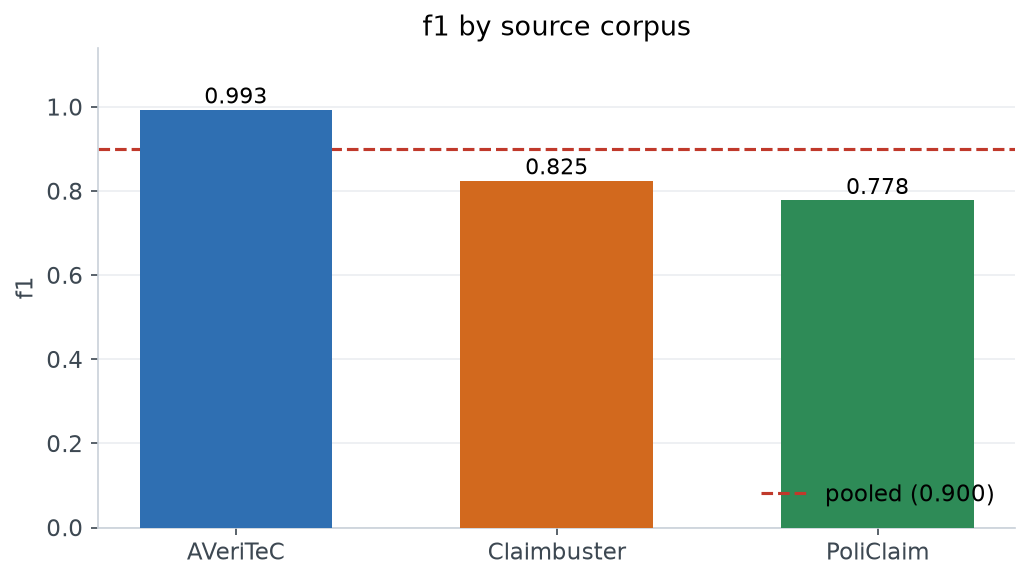
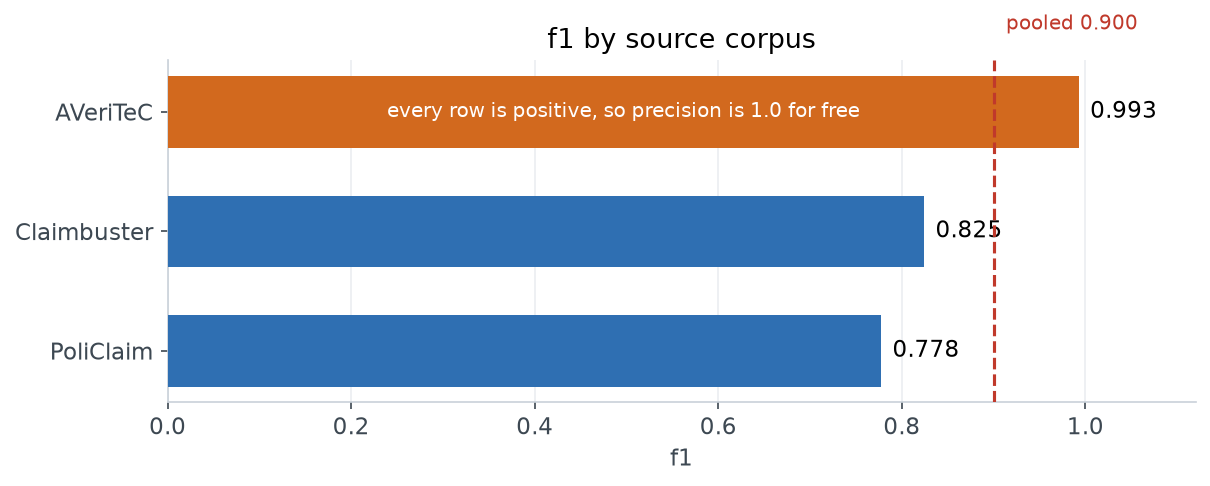
Redo the per-source chart
Vertical bars clipped the y label, the caveat note never rendered, and the
legend sat on top of a bar. Horizontal now, sorted, and the caveat is written
across the AVeriTeC bar itself rather than in a footnote nobody reads - that bar
is high because the corpus has no negatives, and saying so next to the number is
the only way it isn't misleading.

diff --git a/finetuning/plots.py b/finetuning/plots.py
@@ -116,22 +116,26 @@ def threshold_sweep(sweep, baseline: "float | None" = None, name: str = "thresho
 
 
 def by_source_bars(df, metric: str = "accuracy", name: str = "by_source", note: str = ""):
-    sub = df.drop(index="ALL", errors="ignore")
-    fig, ax = plt.subplots(figsize=(7, 4))
-    bars = ax.bar(sub.index, sub[metric], color=[BLUE, ORANGE, GREEN][:len(sub)],
-                  width=.6, zorder=3)
+    sub = df.drop(index="ALL", errors="ignore").sort_values(metric)
+    fig, ax = plt.subplots(figsize=(8.2, 3.4))
+    colors = [ORANGE if i == "AVeriTeC" else BLUE for i in sub.index]
+    ax.barh(sub.index, sub[metric], color=colors, height=.6, zorder=3)
+    for i, (src, v) in enumerate(sub[metric].items()):
+        ax.text(v + .012, i, f"{v:.3f}", va="center", fontsize=11)
+        if src == "AVeriTeC":
+            ax.text(v / 2, i, "every row is positive, so precision is 1.0 for free",
+                    va="center", ha="center", fontsize=9.5, color="white")
     if "ALL" in df.index:
-        ax.axhline(df.loc["ALL", metric], color=RED, ls="--", lw=1.5,
-                   label=f"pooled ({df.loc['ALL', metric]:.3f})")
-        ax.legend(loc="lower right")
-    for b, v in zip(bars, sub[metric]):
-        ax.text(b.get_x() + b.get_width() / 2, v + .015, f"{v:.3f}",
-                ha="center", fontsize=10.5)
-    ax.set_ylim(0, 1.14); ax.set_ylabel(metric)
+        pooled = df.loc["ALL", metric]
+        ax.axvline(pooled, color=RED, ls="--", lw=1.5, zorder=4)
+        ax.text(pooled, len(sub) - .35, f"  pooled {pooled:.3f}", color=RED,
+                fontsize=9.5, va="bottom")
+    ax.set_xlim(0, 1.12)
+    ax.set_xlabel(metric)
     ax.set_title(f"{metric} by source corpus")
+    ax.grid(axis="x", alpha=.7, zorder=0)
     if note:
-        ax.text(0, -.22, note, transform=ax.transAxes, fontsize=9.5, color="#57606a")
-    ax.grid(axis="y", alpha=.7, zorder=0)
+        fig.text(0.01, -0.06, note, fontsize=9.5, color="#57606a")
     return _save(fig, name)
 
 
